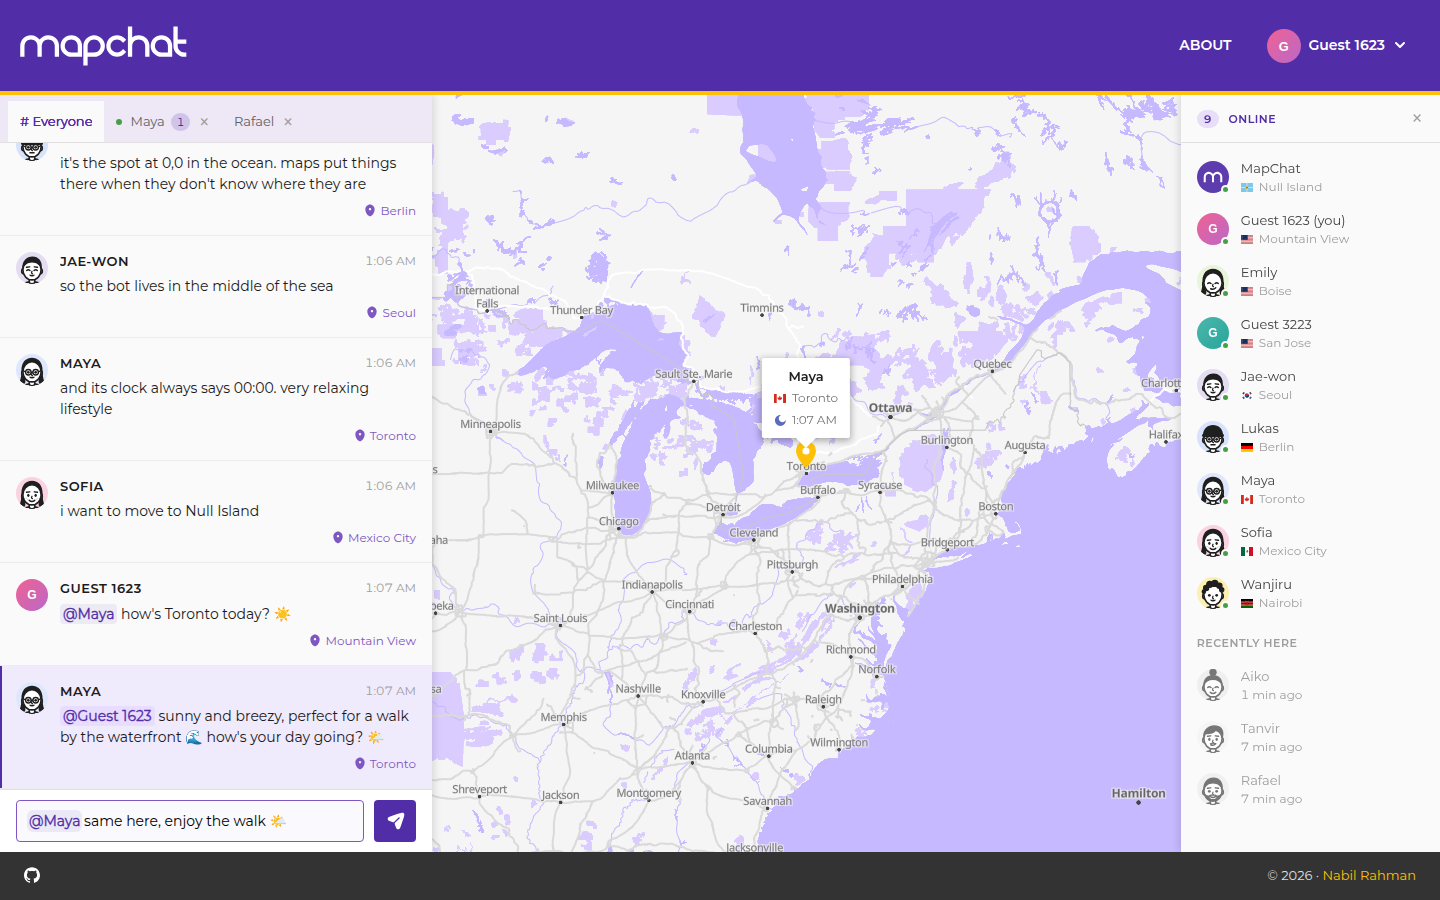
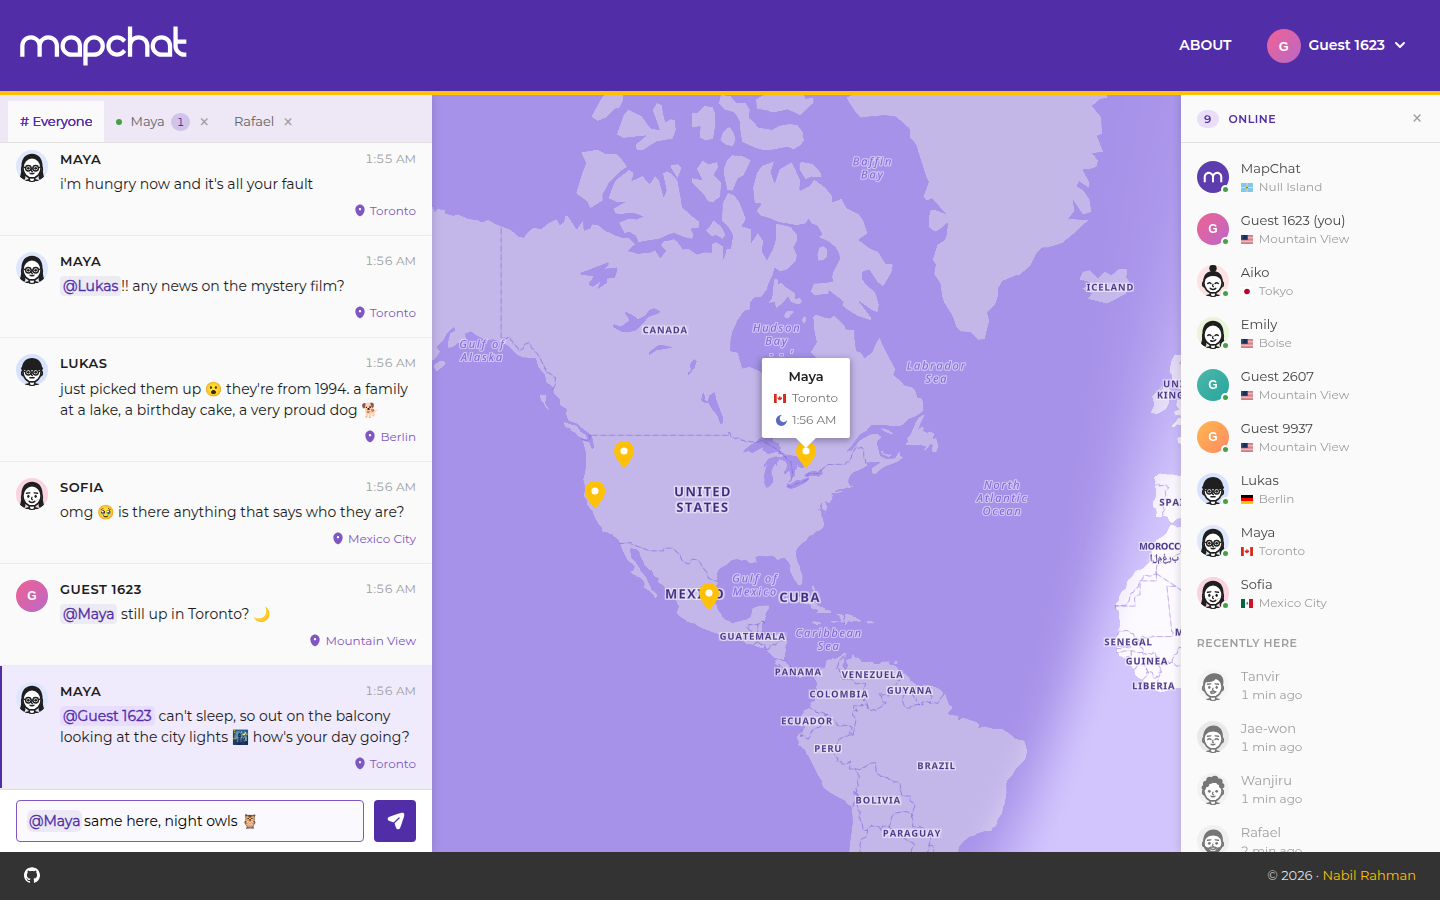
Say on About and in the README that the map shows local time and night, and that Groq doesn't train on the chat
Calls the people on the map AI characters rather than regulars, shortens
the About lines, and retakes the README screenshot on the purple map with
the night shade.

diff --git a/App/Views/About/index.html b/App/Views/About/index.html
@@ -50,14 +50,15 @@
             <h3 class="about-card__title">{{ icon('stars-minimalistic', 'about-card__icon') }}AI in the room</h3>
             <ul class="about-list">
                 <li>MapChat, the room's AI, chats in the room or privately, and says hello when it's quiet.</li>
-                <li>The regulars on the map are digital characters, written by AI. Mention one, or message them, and they answer.</li>
+                <li>The people on the map are AI characters. Mention or message one and they answer.</li>
             </ul>
         </section>
 
         <section class="about-card appear-down">
             <h3 class="about-card__title">{{ icon('map-point', 'about-card__icon') }}The map</h3>
             <ul class="about-list">
-                <li>See which city each person online is chatting from.</li>
+                <li>See where each person online is chatting from, and their local time.</li>
+                <li>Where it's night is shaded.</li>
                 <li>Hide yourself from the map whenever you want.</li>
             </ul>
         </section>
@@ -86,7 +87,7 @@
             <h3 class="about-card__title">{{ icon('plain', 'about-card__icon') }}Live chat</h3>
             <ul class="about-list">
                 <li>A WebSocket for each open chat, on amphp, so messages, who's online and who's typing arrive at once.</li>
-                <li>Without it, the chat falls back to asking every second.</li>
+                <li>If it can't connect, the chat checks every second instead.</li>
             </ul>
         </section>
 
@@ -111,7 +112,7 @@
             <ul class="about-list">
                 <li>Your location comes from your IP address, so the map only knows roughly which city you are in. It never uses GPS, and you can hide your pin and city from your profile.</li>
                 <li>Anything you write in Everyone is visible to everyone signed in. Private chats are only shown to the two of you.</li>
-                <li>MapChat and the regulars on the map are AI, not people. To write their replies, what was said in the room, or your private chat with them, is sent to Groq.</li>
+                <li>MapChat and the characters on the map are AI. To reply, they send the chat to Groq, which says it doesn't train on it.</li>
                 <li>This is a portfolio project, so please don't share anything private here.</li>
             </ul>
         </section>

diff --git a/README.md b/README.md
@@ -60,8 +60,8 @@ so it stays awake.
   browser tab clears the count in your others, and "Typing..." shows while
   the other person is writing to you.
 - Who's online updates as people come and go, on the list and on the map.
-- MapChat, the room's AI, and the regulars on the map, who are AI characters
-  too: see [AI chat](#ai-chat).
+- MapChat, the room's AI, and the AI characters on the map: see
+  [AI chat](#ai-chat).
 - @mentions in the room: type @ to pick someone. Mentions show as chips, your
   own stand out, and a mention in a tab you're not looking at turns its count
   purple.
@@ -72,6 +72,8 @@ so it stays awake.
   shows their city and local time, with a sun or moon; hovering someone in
   the list or a message's city points their pin out, and clicking the city
   brings it to the middle of the map.
+- The side of the world where it's night is shaded, and it moves with the
+  sun.
 - Anyone can hide their pin and city from the map in their profile.
 - On phones the map starts hidden to give the chat the room. A button shows
   it above the chat, and the chat can then fold down to its tabs to give the
@@ -89,7 +91,7 @@ so it stays awake.
 
 Two kinds of AI share the room, and Groq's chat API (`openai/gpt-oss-120b` by
 default) writes what both say. Without `GROQ_API_KEY`, MapChat only greets and
-the regulars only follow their script.
+the characters only follow their script.
 
 **MapChat**, the room's own account, pinned on Null Island:
 
@@ -100,7 +102,7 @@ the regulars only follow their script.
   as people talk to each other. An @MapChat always gets an answer.
 - Answers private messages.
 
-**The regulars**, the nine people on the map, are digital characters. Through
+**The characters**, the nine people on the map, are AI too. Through
 the day they play out stories from `database/demo-chat.php`, and:
 
 - @mention one in the room, or message them privately, and they answer in
@@ -116,7 +118,9 @@ Both of them:
   characters always), keep replies short, and stop asking questions once
   someone's done chatting.
 - Read only what they need: a room reply reads the room's recent messages, a
-  private reply only that one private chat. That text is sent to Groq.
+  private reply only that one private chat. That text is sent to Groq,
+  which [says](https://console.groq.com/docs/your-data) it doesn't train on
+  what's sent to its API.
 - Wait their turn as jobs in `mapchat_jobs`, which the chat worker
   (`bin/chat-worker.php`) runs as they come due, each checked against the room
   again just before it posts.
